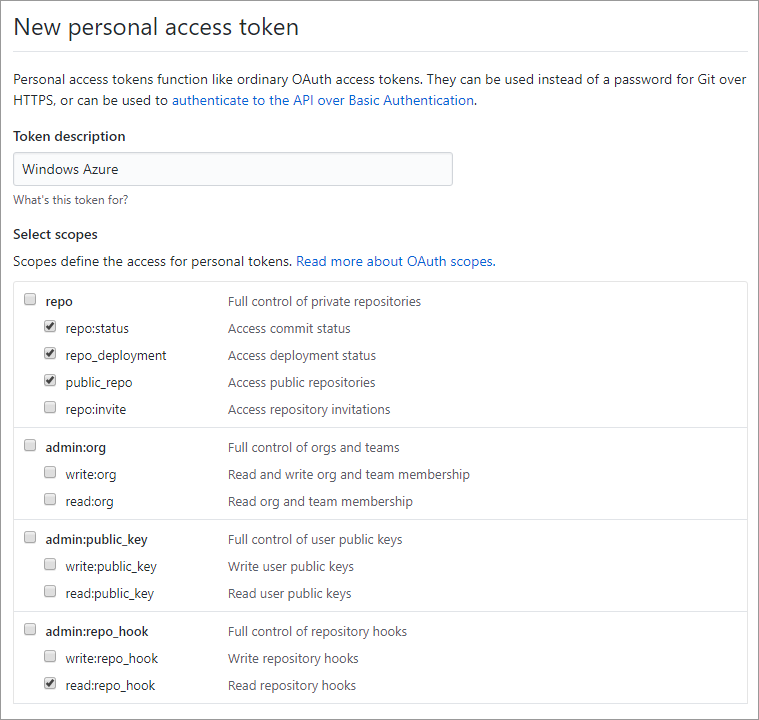
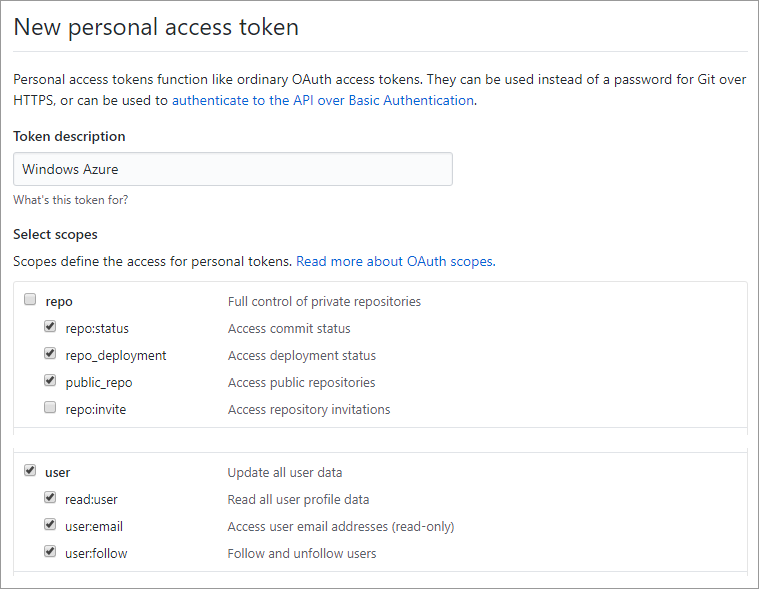
Check in new changes

diff --git a/README.md b/README.md
@@ -325,11 +325,13 @@ To start, you must register OAuth applications for GitHub and LinkedIn. These OA
 
    - Enter a value in the **Token description** text box.
 
-   - Select the following checkboxes (your selections should match the screenshot below):
+   - Select the following scopes (your selections should match the screenshot below):
 
      - repo -> repo:status, repo_deployment, public_repo
 
-     - admin:repo_hook -> read:repo_hook
+     - user -> read:user, user:emial, user:follow
+
+       > Note: the user scope itself must be selected.
 
        ![](Images/github-new-personal-access-token.png)
 
